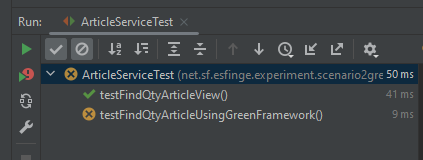
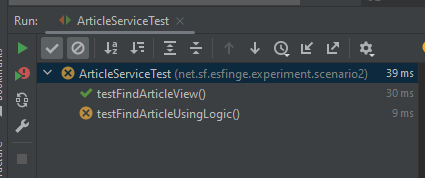
adjusting text

diff --git a/src/test/java/net/sf/esfinge/experiment/scenario2green/ArticleServiceTest.java b/src/test/java/net/sf/esfinge/experiment/scenario2green/ArticleServiceTest.java
@@ -1,36 +1,32 @@
 package net.sf.esfinge.experiment.scenario2green;
 
-import net.sf.esfinge.experiment.scenario2green.entity.Article;
 import net.sf.esfinge.experiment.scenario2green.service.ArticleService;
 import org.junit.jupiter.api.Test;
-
-import java.util.ArrayList;
-import java.util.List;
 
 import static org.junit.jupiter.api.Assertions.assertEquals;
 
 class ArticleServiceTest {
 
+    private static final String ARTICLE = "The article Como fazer um bolo simples contains 10 pages and has been viewed 45 times.";
+    private static final String SAVE_ENERGY_ARTICLE = "The article Como fazer um bolo simples has been viewed 45 times.";
+
     @Test
-    void testFindQtyArticleView() {
+    void testFindArticleView() {
         ArticleService articleService = new ArticleService();
 
-        List<Article> articles = new ArrayList<>();
-        articleService.findArticles(articles);
+        String titleArticle = articleService.findArticle();
 
-        assertEquals(1, articles.size());
-        assertEquals("Como fazer um bolo simples", articles.get(0).getName());
-        assertEquals(45, articles.get(0).getView());
+        assertEquals(ARTICLE, titleArticle);
     }
 
     @Test
-    void testFindQtyArticleUsingGreenFramework() {
+    void testFindArticleUsingLogic() {
         ArticleService articleService = new ArticleService();
+        articleService.saveConsumptionEnergy(true);
 
-        List<Article> articles = new ArrayList<>();
-        articleService.findArticles(articles);
+        String titleArticle = articleService.findArticle();
 
-        assertEquals(0, articles.size());
+        assertEquals(SAVE_ENERGY_ARTICLE, titleArticle);
     }
 
 

diff --git a/src/main/java/net/sf/esfinge/experiment/scenario2green/service/ArticleService.java b/src/main/java/net/sf/esfinge/experiment/scenario2green/service/ArticleService.java
@@ -3,14 +3,36 @@ package net.sf.esfinge.experiment.scenario2green.service;
 import net.sf.esfinge.experiment.scenario2green.entity.Article;
 import net.sf.esfinge.experiment.scenario2green.repository.ArticleRepository;
 
+import java.io.IOException;
+import java.util.ArrayList;
 import java.util.List;
 
 public class ArticleService {
 
+    private final ProcessArticlePage processArticlePage = new ProcessArticlePage();
     private final ArticleRepository repository = new ArticleRepository();
 
-    public void findArticles(List<Article> param) {
-        repository.findArticle(param);
+    public String findArticle() {
+        StringBuilder sb = new StringBuilder();
+        List<Article> articles = new ArrayList<>();
+
+        try {
+            sb.append("The article ");
+            repository.findArticle(sb, articles);
+            processArticlePage.calculateQuantityPages(sb, articles);
+            sb.append(" has been viewed ");
+            repository.findArticleViews(sb);
+            sb.append(" times.");
+        } catch (IOException e) {
+            e.printStackTrace();
+            throw new RuntimeException(e);
+        }
+
+        return sb.toString();
+    }
+
+    public void saveConsumptionEnergy(boolean saveEnergy) {
+        //Implement your logic
     }
 
 }

diff --git a/src/main/java/net/sf/esfinge/experiment/scenario2green/repository/ArticleRepository.java b/src/main/java/net/sf/esfinge/experiment/scenario2green/repository/ArticleRepository.java
@@ -12,14 +12,14 @@ public class ArticleRepository {
 
     private static final String FILE_PATH = "src/main/resources/articles.txt";
 
-    public void findArticle(List<Article> param) {
-        try {
-            List<Article> articles = readLinesFile();
-            Article article = articles.get(0);
-            param.add(article);
-        } catch (IOException e) {
-            throw new RuntimeException(e);
-        }
+    public void findArticle(StringBuilder param, List<Article> articles) throws IOException {
+        articles.addAll(readLinesFile());
+        param.append(articles.get(0).getName());
+    }
+
+    public void findArticleViews(StringBuilder param) throws IOException {
+        List<Article> articles = readLinesFile();
+        param.append(articles.get(0).getView());
     }
 
     private List<Article> readLinesFile() throws IOException {

diff --git a/src/main/java/net/sf/esfinge/experiment/scenario2green/service/ProcessArticlePage.java b/src/main/java/net/sf/esfinge/experiment/scenario2green/service/ProcessArticlePage.java
@@ -1,0 +1,14 @@
+package net.sf.esfinge.experiment.scenario2green.service;
+
+import net.sf.esfinge.experiment.scenario2green.entity.Article;
+
+import java.util.List;
+
+public class ProcessArticlePage {
+
+    public void calculateQuantityPages(StringBuilder sb, List<Article> articles) {
+        sb.append(" contains ")
+            .append(articles.size())
+            .append(" pages and");
+    }
+}

diff --git a/README.md b/README.md
@@ -1,7 +1,10 @@
-
 # 📰 Article View Counter – Greensfinge Experiment
 
-This project simulates an article view counter, commonly used in blogs or content platforms. It is part of an experiment to demonstrate how energy-saving strategies can be integrated into Java applications using the **Greensfinge Framework**.
+Consider a blog that shows the number of views for each article right below the title. By default, this number is updated with each new access:
+
+"The article Java for Beginners contains 15 pages and has been viewed 542 times."
+
+Although this is real data, it is not always required. For instance, the calculation of the number of pages is resource-intensive and not mandatory.
 
 ## 📦 Project Structure
 
@@ -13,15 +16,20 @@ The project follows a simple architecture with a service, entity and repository.
 - `service.ArticleService`: Contains the business logic to format the article view message.
 - `repository.ArticleRepository`: Simulates a database to search the values.
 
-### ❓ Remember the Task
-How can we prevent the view counter from being executed without altering the actual counting logic ? In this case, the quantity of views is optional
+### ❓ Task
+
+In the ArticleService class, the testFindArticleView() method searches for an article, a product, and the number of views. Currently, this method also returns the number of pages. To save energy when the user does not need the page count, you should implement functionality to make this optional.
+
+To implement this functionality, when the new method saveConsumptionEnergy() is called with the parameter "true", the number of pages should be disabled. The method saveConsumptionEnergy() is empty and you need to implement it as part of your task.
 
 ---
 
 ## 🧪 Unit Tests
 
-The test class `ArticleServiceTest` validates the behavior of the logic for adding articles:
+The test class `ArticleServiceTest` validates the behavior of the view counter logic.
 
-In this task, you will see something like this, and the goal is to make all tests pass successfully.
+When you open the project, to make sure that everything is correctly configured, you need to run the tests and teh result should be the one in teh pecture: on test will pass and the other not. When you make all tests pass successfully, your task is complete.
 
-![img.png](img.png)![img.png](img.png)
+> `IMPORTANT: You cannot change the test code!`
+
+![img.png](img.png)
